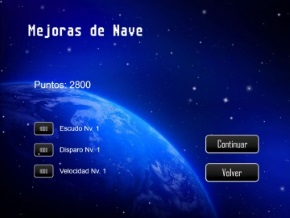
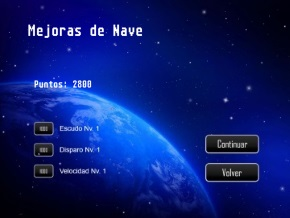
Actualizadas imágenes de fichero README

diff --git a/public/js/levelUp.js b/public/js/levelUp.js
@@ -9,7 +9,7 @@ var levelUp = {
 		game.skin = game.add.sprite(0, 0, 'skin' + game.skinSeleccionada);
 		game.mapaTitulo = game.add.bitmapText(100, 80, 'gem', '', 54);
 		game.global.mostrarLetraPorLetra(game.mapaTitulo, 'Mejoras de Nave');
-        game.puntosTexto = game.add.text(120, 280, 'Puntos: ' + game.puntos, {font: '34px Arial', fill: 'white' });
+		game.puntosTexto = game.add.bitmapText(120, 280, 'gem', 'Puntos: ' + game.puntos, 34);
 		game.escudoNave = game.add.text(210, 440, 'Escudo Nv. ' + ((game.nivelNaveEscudo <= 5) ? game.nivelNaveEscudo : "Máximo"), {font: '24px Arial', fill: 'white' });		
 		game.velocidadDisparo = game.add.text(210, 515, 'Disparo Nv. ' + ((game.nivelNaveDisparo <= 5) ? game.nivelNaveDisparo : "Máximo"), {font: '24px Arial', fill: 'white' });
 		game.velocidadNave = game.add.text(210, 590, 'Velocidad Nv. ' + ((game.nivelNaveVelocidad <= 5) ? game.nivelNaveVelocidad : "Máximo"), {font: '24px Arial', fill: 'white' });

diff --git a/public/js/menu.js b/public/js/menu.js
@@ -84,7 +84,7 @@ var menuState = {
 		game.naveBalasRatio = 1000;
 		game.naveVelocidad = 200;
 		game.velocidadLogo = 0.01;
-		game.siguienteNivel = 'level3';
+		game.siguienteNivel = 'level1';
 		// Posicionamos por encima botones y texto mostrados
 		game.world.bringToTop(game.mapaTitulo);
 		game.world.bringToTop(game.btnJugar);
